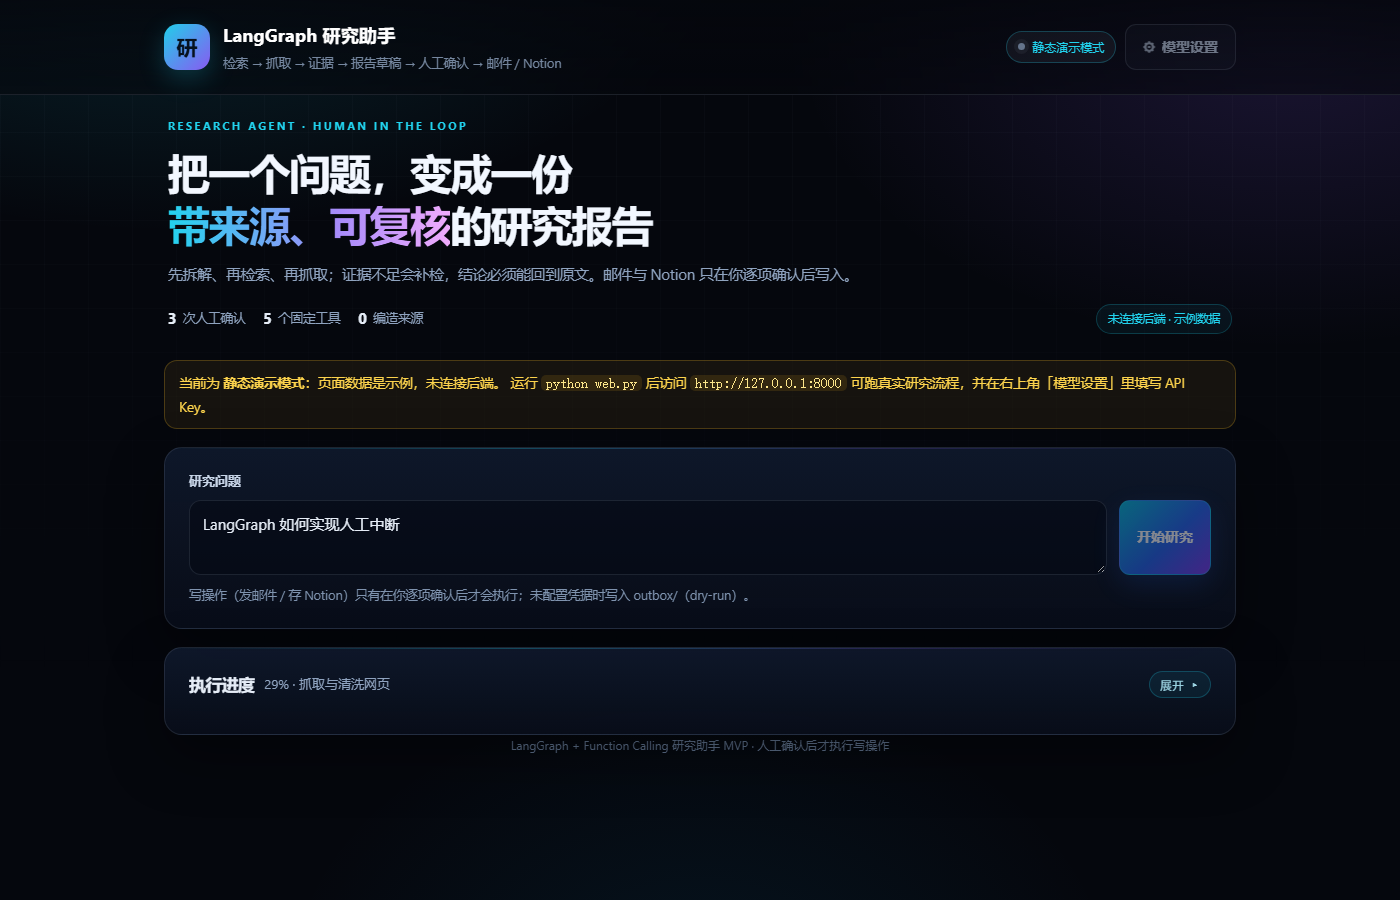
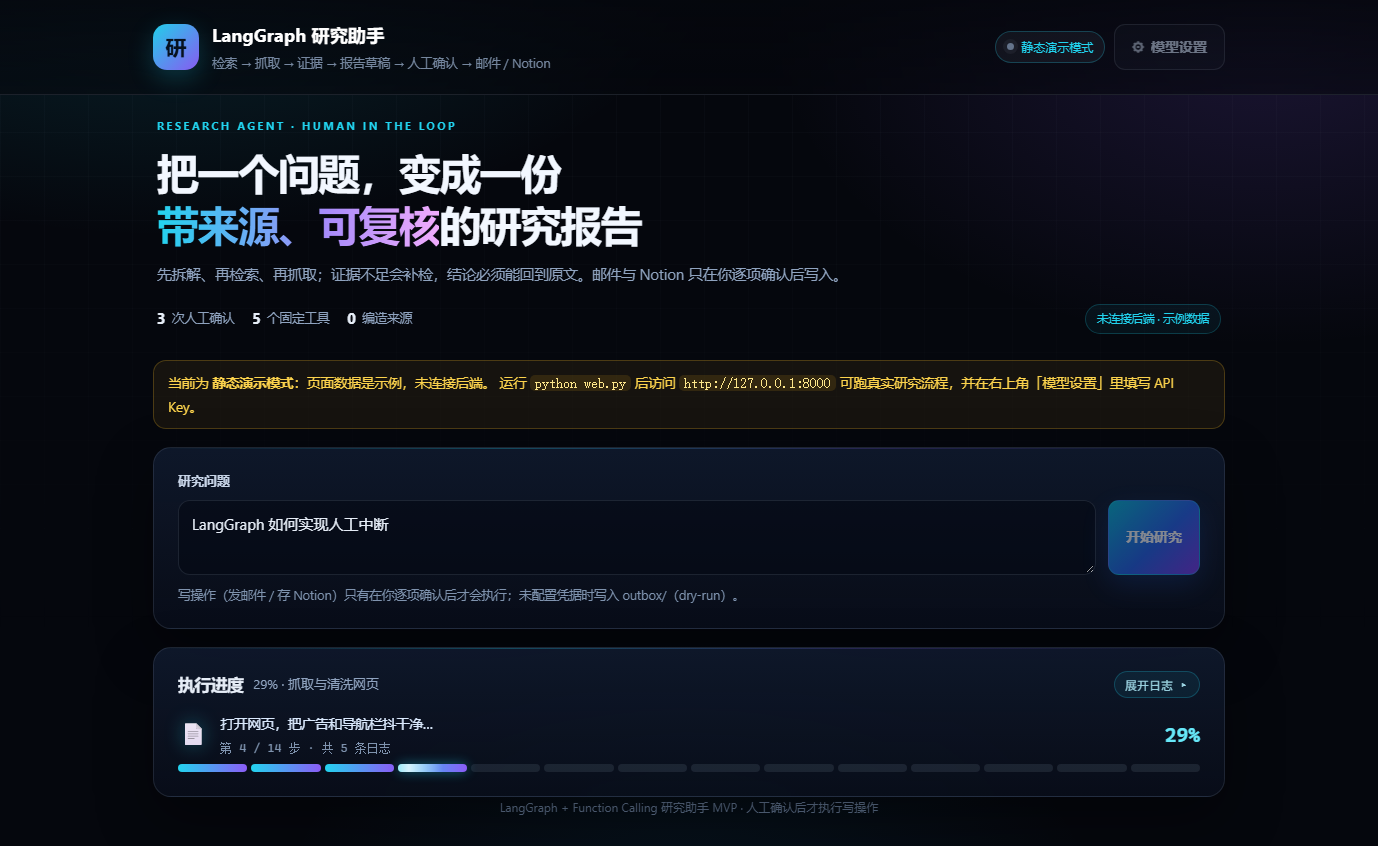
style: 执行进度收起时保留进度条
- 收起按钮只折叠日志表格（#progress-log），进度条与阶段文案/百分比始终可见
- 收起态卡片高度约 150px（原先整块隐藏），按钮文案改为「收起日志 / 展开日志」
- 更新收起态截图 docs/web-ui-progress-collapsed.png 与 README 说明
- 测试补充：折叠目标必须是 progress-log（156 passed）

diff --git a/index.html b/index.html
@@ -397,6 +397,10 @@
   .collapse-btn:focus-visible { outline: 2px solid rgba(34, 211, 238, .6); outline-offset: 2px; }
   .collapse-btn .chev { display: inline-block; transition: transform .18s ease; }
   #progress-card.collapsed .collapse-btn .chev { transform: rotate(-90deg); }
+  /* 收起时只收日志，进度条与阶段文案保留，卡片更矮 */
+  #progress-card.collapsed .stage-row { margin-bottom: 6px; }
+  #progress-card.collapsed .seg-bar { margin-bottom: 2px; }
+  #progress-card.collapsed .stage-emoji { font-size: 22px; }
   .stage-row { display: flex; align-items: center; gap: 12px; margin: 2px 0 10px; }
   .stage-emoji {
     font-size: 26px; line-height: 1; flex: none;
@@ -636,7 +640,7 @@
     <div class="card-head progress-head">
       <h2>执行进度</h2>
       <span class="muted" id="progress-text">处理中…</span>
-      <button type="button" class="collapse-btn" id="progress-toggle" aria-expanded="true" aria-controls="progress-body">
+      <button type="button" class="collapse-btn" id="progress-toggle" aria-expanded="true" aria-controls="progress-log">
         <span id="progress-toggle-text">收起</span><span class="chev" aria-hidden="true">▾</span>
       </button>
     </div>
@@ -651,7 +655,7 @@
       </div>
       <div class="seg-bar" id="seg-bar" role="progressbar" aria-valuemin="0" aria-valuemax="14"
         aria-valuenow="0" aria-label="研究流程进度"></div>
-      <div class="log-wrap">
+      <div class="log-wrap" id="progress-log">
         <table class="log-table">
           <thead>
             <tr><th>step_id</th><th>节点</th><th>工具</th><th>状态</th><th>重试</th><th>耗时</th><th>错误</th></tr>
@@ -959,9 +963,10 @@
 
   function setProgressCollapsed(collapsed) {
     progressCollapsed = collapsed;
-    $("progress-body").hidden = collapsed;
+    // 收起的是日志表格，进度条与阶段文案始终可见
+    $("progress-log").hidden = collapsed;
     $("progress-card").classList.toggle("collapsed", collapsed);
-    $("progress-toggle-text").textContent = collapsed ? "展开" : "收起";
+    $("progress-toggle-text").textContent = collapsed ? "展开日志" : "收起日志";
     $("progress-toggle").setAttribute("aria-expanded", String(!collapsed));
   }
 

diff --git a/tests/test_web_config.py b/tests/test_web_config.py
@@ -131,8 +131,12 @@ def test_index_progress_ui_has_segments_and_collapse_toggle():
     html = (Path(__file__).resolve().parents[1] / "index.html").read_text(encoding="utf-8")
     assert 'id="seg-bar"' in html, "执行进度需要分段进度条容器"
     assert 'id="progress-body"' in html and 'id="progress-toggle"' in html, "执行进度需要可收纳"
+    assert 'id="progress-log"' in html, "日志表格要单独包一层，收起时只收起日志"
     assert 'id="stage-copy"' in html and 'id="stage-percent"' in html, "需要阶段文案与百分比"
     assert 'aria-valuenow' in html, "进度条要有无障碍语义"
+    # 收起时保留进度条：折叠的必须是 progress-log，不能是 progress-body
+    assert '$("progress-log").hidden = collapsed' in html
+    assert '$("progress-body").hidden = collapsed' not in html
 
 
 def test_progress_node_order_matches_graph_nodes():

diff --git a/README.md b/README.md
@@ -322,8 +322,8 @@ uvicorn web:app --host 127.0.0.1 --port 8000
 5. **最终结果**：状态、写操作结果、错误与降级、完整报告（可下载 Markdown）、完整日志表。
 
 **执行进度卡片**：14 个分段节点进度条（补检回环只增不减，不会倒退）+ 阶段表情/轻松文案 +
-当前百分比，整块支持「收起 / 展开」（默认展开，运行中也可以收起来看别处）。
-深链 `?collapse=1` 可直接以收起态打开，`?q=...&autostart=1` 自动跑静态演示。
+当前百分比；「收起日志 / 展开日志」只折叠日志表格，**进度条与阶段文案始终可见**（默认展开，
+运行中也能收起来省地方）。深链 `?collapse=1` 可直接以收起态打开，`?q=...&autostart=1` 自动跑静态演示。
 
 ![执行进度：分段节点进度条](docs/web-ui-progress.png)
 
